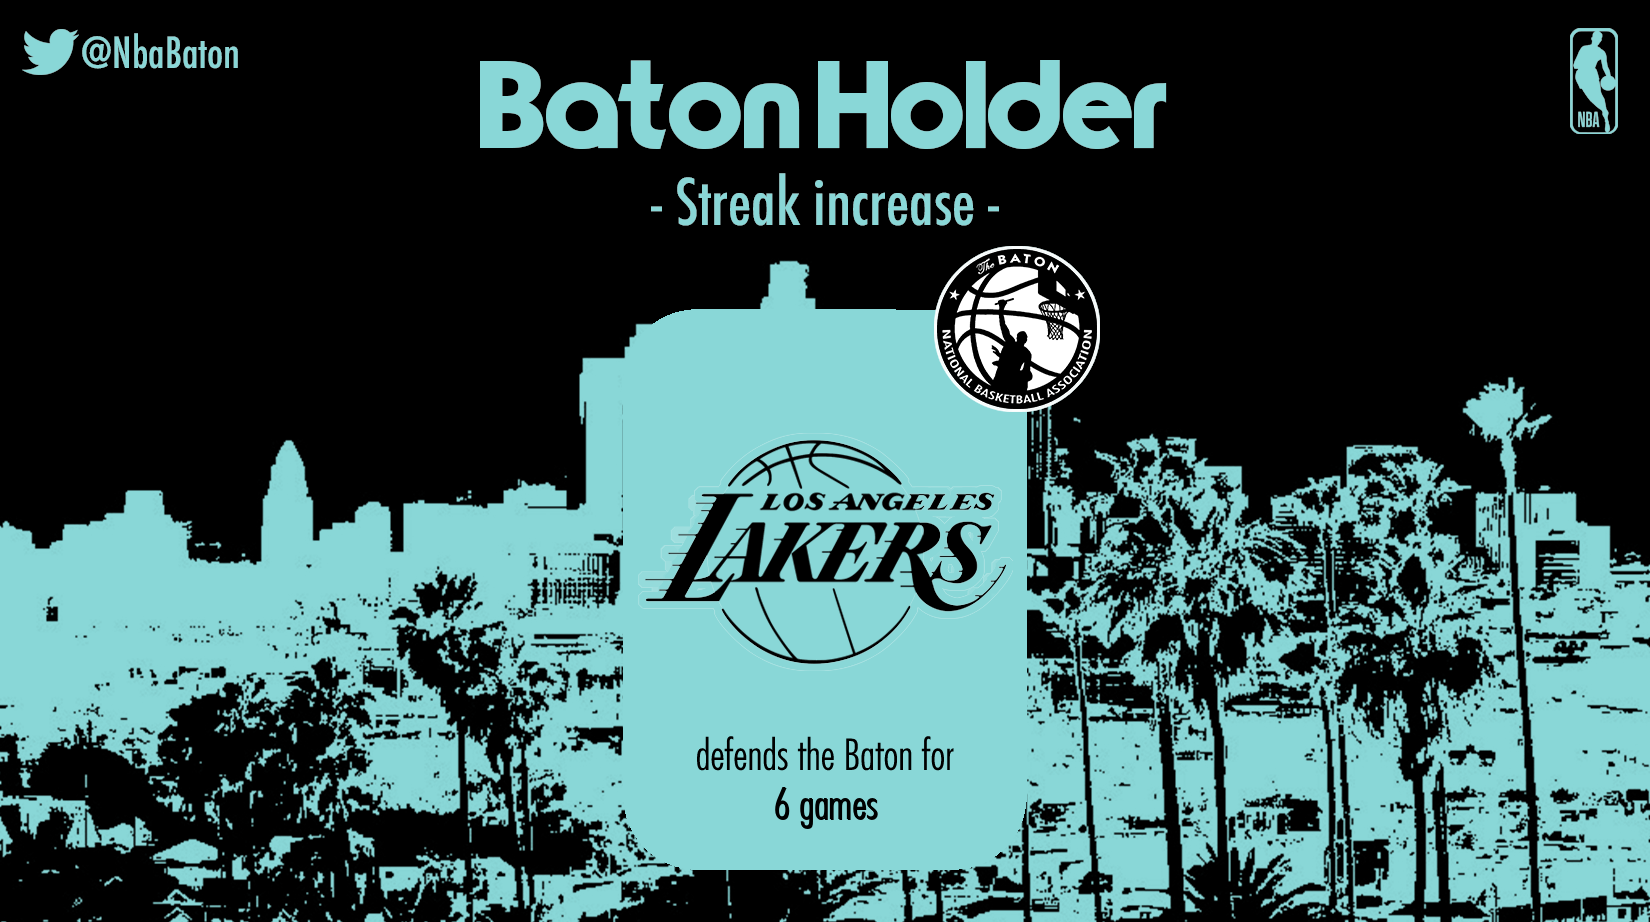
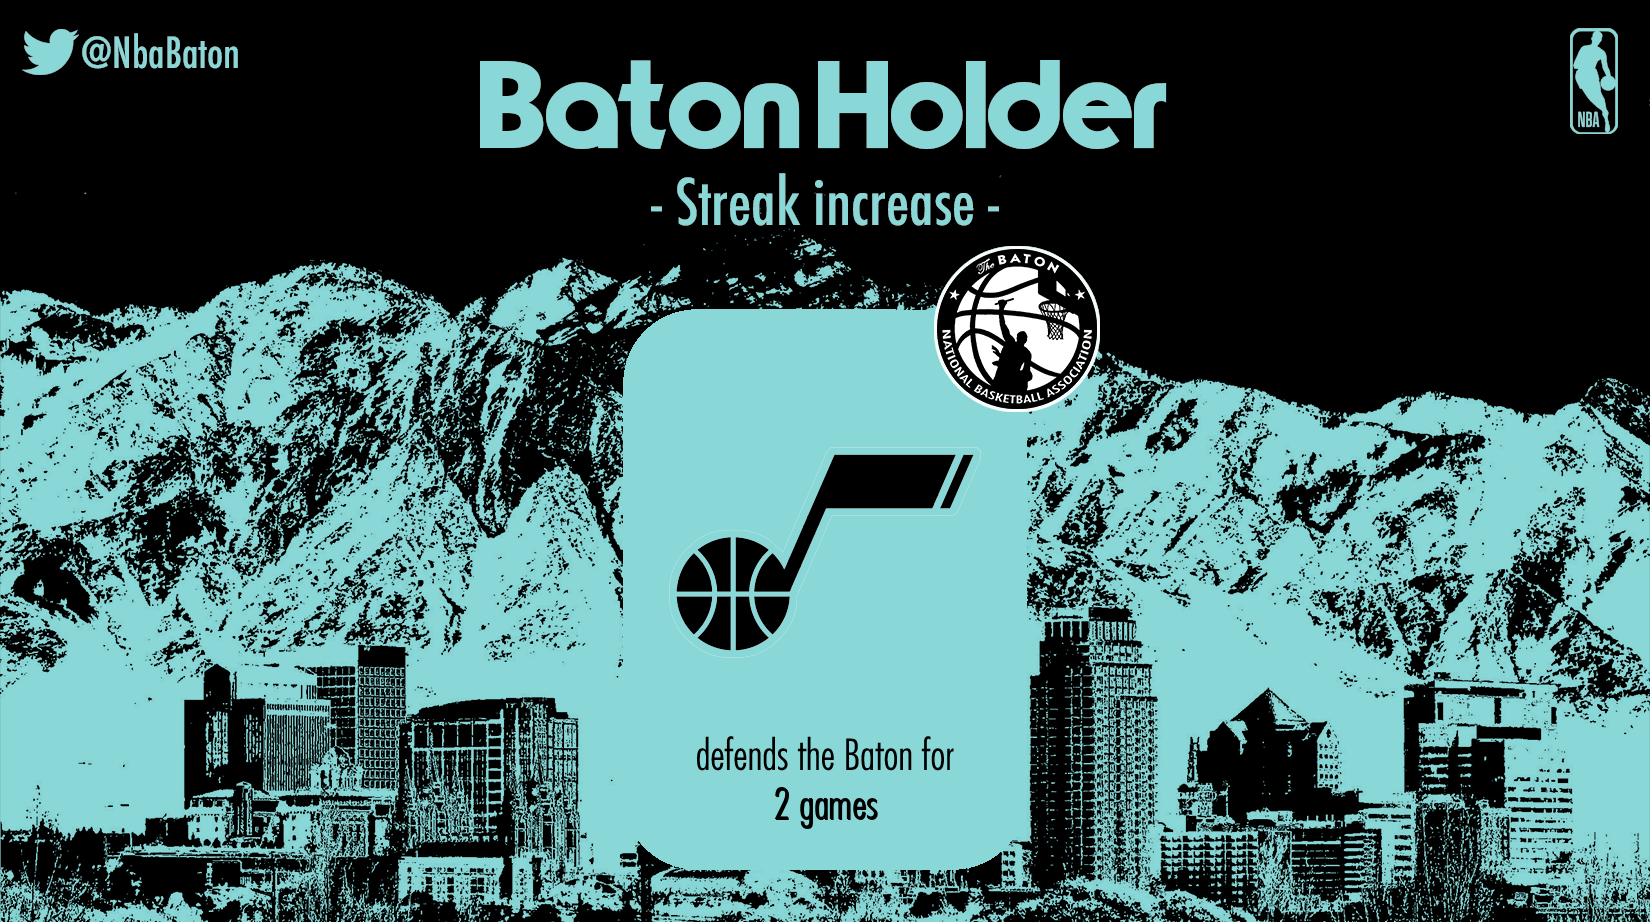
Add changes

diff --git a/index.md b/index.md
@@ -1,6 +1,6 @@
 <center><div class="LaBoite"><h2>Current Defender</h2>
 
-<img src="https://upload.wikimedia.org/wikipedia/commons/3/3c/Los_Angeles_Lakers_logo.svg" width="100" title="Los Angeles Lakers"><p style="font-size:20px; font-family: FuturaHeavy;">For 5 games.</p>
+<img src="https://upload.wikimedia.org/wikipedia/en/5/52/Utah_Jazz_logo_2022.svg" width="100" title="Utah Jazz"><p style="font-size:20px; font-family: FuturaHeavy;">For 1 game.</p>
 
 </div><br>
 <img src="https://raw.githubusercontent.com/LouHeb/NBABaton/gh-pages/Stock/0_GameDay.png" width="1000" title="Next NBA Baton Game">
@@ -19,7 +19,7 @@
 <tr><td style="text-align:center;font-size:13px;">  <img src="https://upload.wikimedia.org/wikipedia/en/2/28/Houston_Rockets.svg" width="20" title="Houston Rockets"></td><td style="text-align:center;font-size:13px;">  11</td><td style="text-align:center;font-size:13px;">  219</td><td style="text-align:center;font-size:13px;">  March 6th, 2024</td></tr>
 <tr><td style="text-align:center;font-size:13px;">  <img src="https://upload.wikimedia.org/wikipedia/en/1/1b/Indiana_Pacers.svg" width="20" title="Indiana Pacers"></td><td style="text-align:center;font-size:13px;">  10</td><td style="text-align:center;font-size:13px;">  168</td><td style="text-align:center;font-size:13px;">  January 14th, 2025</td></tr>
 <tr><td style="text-align:center;font-size:13px;">  <img src="https://upload.wikimedia.org/wikipedia/en/thumb/e/ed/Los_Angeles_Clippers_%282024%29.svg/800px-Los_Angeles_Clippers_%282024%29.svg.png" width="20" title="Los Angeles Clippers"></td><td style="text-align:center;font-size:13px;">  8</td><td style="text-align:center;font-size:13px;">  132</td><td style="text-align:center;font-size:13px;">  March 10th, 2024</td></tr>
-<tr><td style="text-align:center;font-size:13px;">  <img src="https://upload.wikimedia.org/wikipedia/commons/3/3c/Los_Angeles_Lakers_logo.svg" width="20" title="Los Angeles Lakers"></td><td style="text-align:center;font-size:13px;">  18</td><td style="text-align:center;font-size:13px;">  648</td><td style="text-align:center;color: red; font-family: FuturaHeavy;font-size:13px;">  Current defender</td></tr>
+<tr><td style="text-align:center;font-size:13px;">  <img src="https://upload.wikimedia.org/wikipedia/commons/3/3c/Los_Angeles_Lakers_logo.svg" width="20" title="Los Angeles Lakers"></td><td style="text-align:center;font-size:13px;">  18</td><td style="text-align:center;font-size:13px;">  648</td><td style="text-align:center;font-size:13px;">  February 12th, 2025</td></tr>
 <tr><td style="text-align:center;font-size:13px;">  <img src="https://upload.wikimedia.org/wikipedia/en/f/f1/Memphis_Grizzlies.svg" width="20" title="Memphis Grizzlies"></td><td style="text-align:center;font-size:13px;">  10</td><td style="text-align:center;font-size:13px;">  80</td><td style="text-align:center;font-size:13px;">  January 27th, 2025</td></tr>
 <tr><td style="text-align:center;font-size:13px;">  <img src="https://upload.wikimedia.org/wikipedia/en/f/fb/Miami_Heat_logo.svg" width="20" title="Miami Heat"></td><td style="text-align:center;font-size:13px;">  12</td><td style="text-align:center;font-size:13px;">  182</td><td style="text-align:center;font-size:13px;">  December 16th, 2024</td></tr>
 <tr><td style="text-align:center;font-size:13px;">  <img src="https://upload.wikimedia.org/wikipedia/en/4/4a/Milwaukee_Bucks_logo.svg" width="20" title="Milwaukee Bucks"></td><td style="text-align:center;font-size:13px;">  15</td><td style="text-align:center;font-size:13px;">  284</td><td style="text-align:center;font-size:13px;">  March 12th, 2024</td></tr>
@@ -34,11 +34,12 @@
 <tr><td style="text-align:center;font-size:13px;">  <img src="https://upload.wikimedia.org/wikipedia/en/c/c7/SacramentoKings.svg" width="20" title="Sacramento Kings"></td><td style="text-align:center;font-size:13px;">  12</td><td style="text-align:center;font-size:13px;">  328</td><td style="text-align:center;font-size:13px;">  March 16th, 2024</td></tr>
 <tr><td style="text-align:center;font-size:13px;">  <img src="https://upload.wikimedia.org/wikipedia/en/a/a2/San_Antonio_Spurs.svg" width="20" title="San Antonio Spurs"></td><td style="text-align:center;font-size:13px;">  13</td><td style="text-align:center;font-size:13px;">  277</td><td style="text-align:center;font-size:13px;">  March 5th, 2024</td></tr>
 <tr><td style="text-align:center;font-size:13px;">  <img src="https://upload.wikimedia.org/wikipedia/en/3/36/Toronto_Raptors_logo.svg" width="20" title="Toronto Raptors"></td><td style="text-align:center;font-size:13px;">  5</td><td style="text-align:center;font-size:13px;">  45</td><td style="text-align:center;font-size:13px;">  December 1st, 2023</td></tr>
-<tr><td style="text-align:center;font-size:13px;">  <img src="https://upload.wikimedia.org/wikipedia/en/5/52/Utah_Jazz_logo_2022.svg" width="20" title="Utah Jazz"></td><td style="text-align:center;font-size:13px;">  12</td><td style="text-align:center;font-size:13px;">  218</td><td style="text-align:center;font-size:13px;">  December 23rd, 2024</td></tr>
+<tr><td style="text-align:center;font-size:13px;">  <img src="https://upload.wikimedia.org/wikipedia/en/5/52/Utah_Jazz_logo_2022.svg" width="20" title="Utah Jazz"></td><td style="text-align:center;font-size:13px;">  12</td><td style="text-align:center;font-size:13px;">  219</td><td style="text-align:center;color: red; font-family: FuturaHeavy;font-size:13px;">  Current defender</td></tr>
 <tr><td style="text-align:center;font-size:13px;">  <img src="https://upload.wikimedia.org/wikipedia/en/0/02/Washington_Wizards_logo.svg" width="20" title="Washington Wizards"></td><td style="text-align:center;font-size:13px;">  8</td><td style="text-align:center;font-size:13px;">  209</td><td style="text-align:center;font-size:13px;">  November 17th, 2021</td></tr>
 
 </table><br><h2>The History</h2><table><tr><th style="text-align:center; font-family: FuturaHeavy">  Winning date</th><th style="text-align:center; font-family: FuturaHeavy"> NBA Baton defender</th><th style="text-align:center; font-family: FuturaHeavy">  # of games</th></tr>
 
+<tr><td style="text-align:center">  February 12th, 2025</td><td style="text-align:center"><img src="https://upload.wikimedia.org/wikipedia/en/5/52/Utah_Jazz_logo_2022.svg" width="30" title="Utah Jazz"></td><td style="text-align:center"> 1 </td></tr>
 <tr><td style="text-align:center">  February 1st, 2025</td><td style="text-align:center"><img src="https://upload.wikimedia.org/wikipedia/commons/3/3c/Los_Angeles_Lakers_logo.svg" width="30" title="Los Angeles Lakers"></td><td style="text-align:center"> 5 </td></tr>
 <tr><td style="text-align:center">  January 27th, 2025</td><td style="text-align:center"><img src="https://upload.wikimedia.org/wikipedia/en/2/25/New_York_Knicks_logo.svg" width="30" title="New York Knicks"></td><td style="text-align:center"> 2 </td></tr>
 <tr><td style="text-align:center">  January 22nd, 2025</td><td style="text-align:center"><img src="https://upload.wikimedia.org/wikipedia/en/f/f1/Memphis_Grizzlies.svg" width="30" title="Memphis Grizzlies"></td><td style="text-align:center"> 3 </td></tr>
